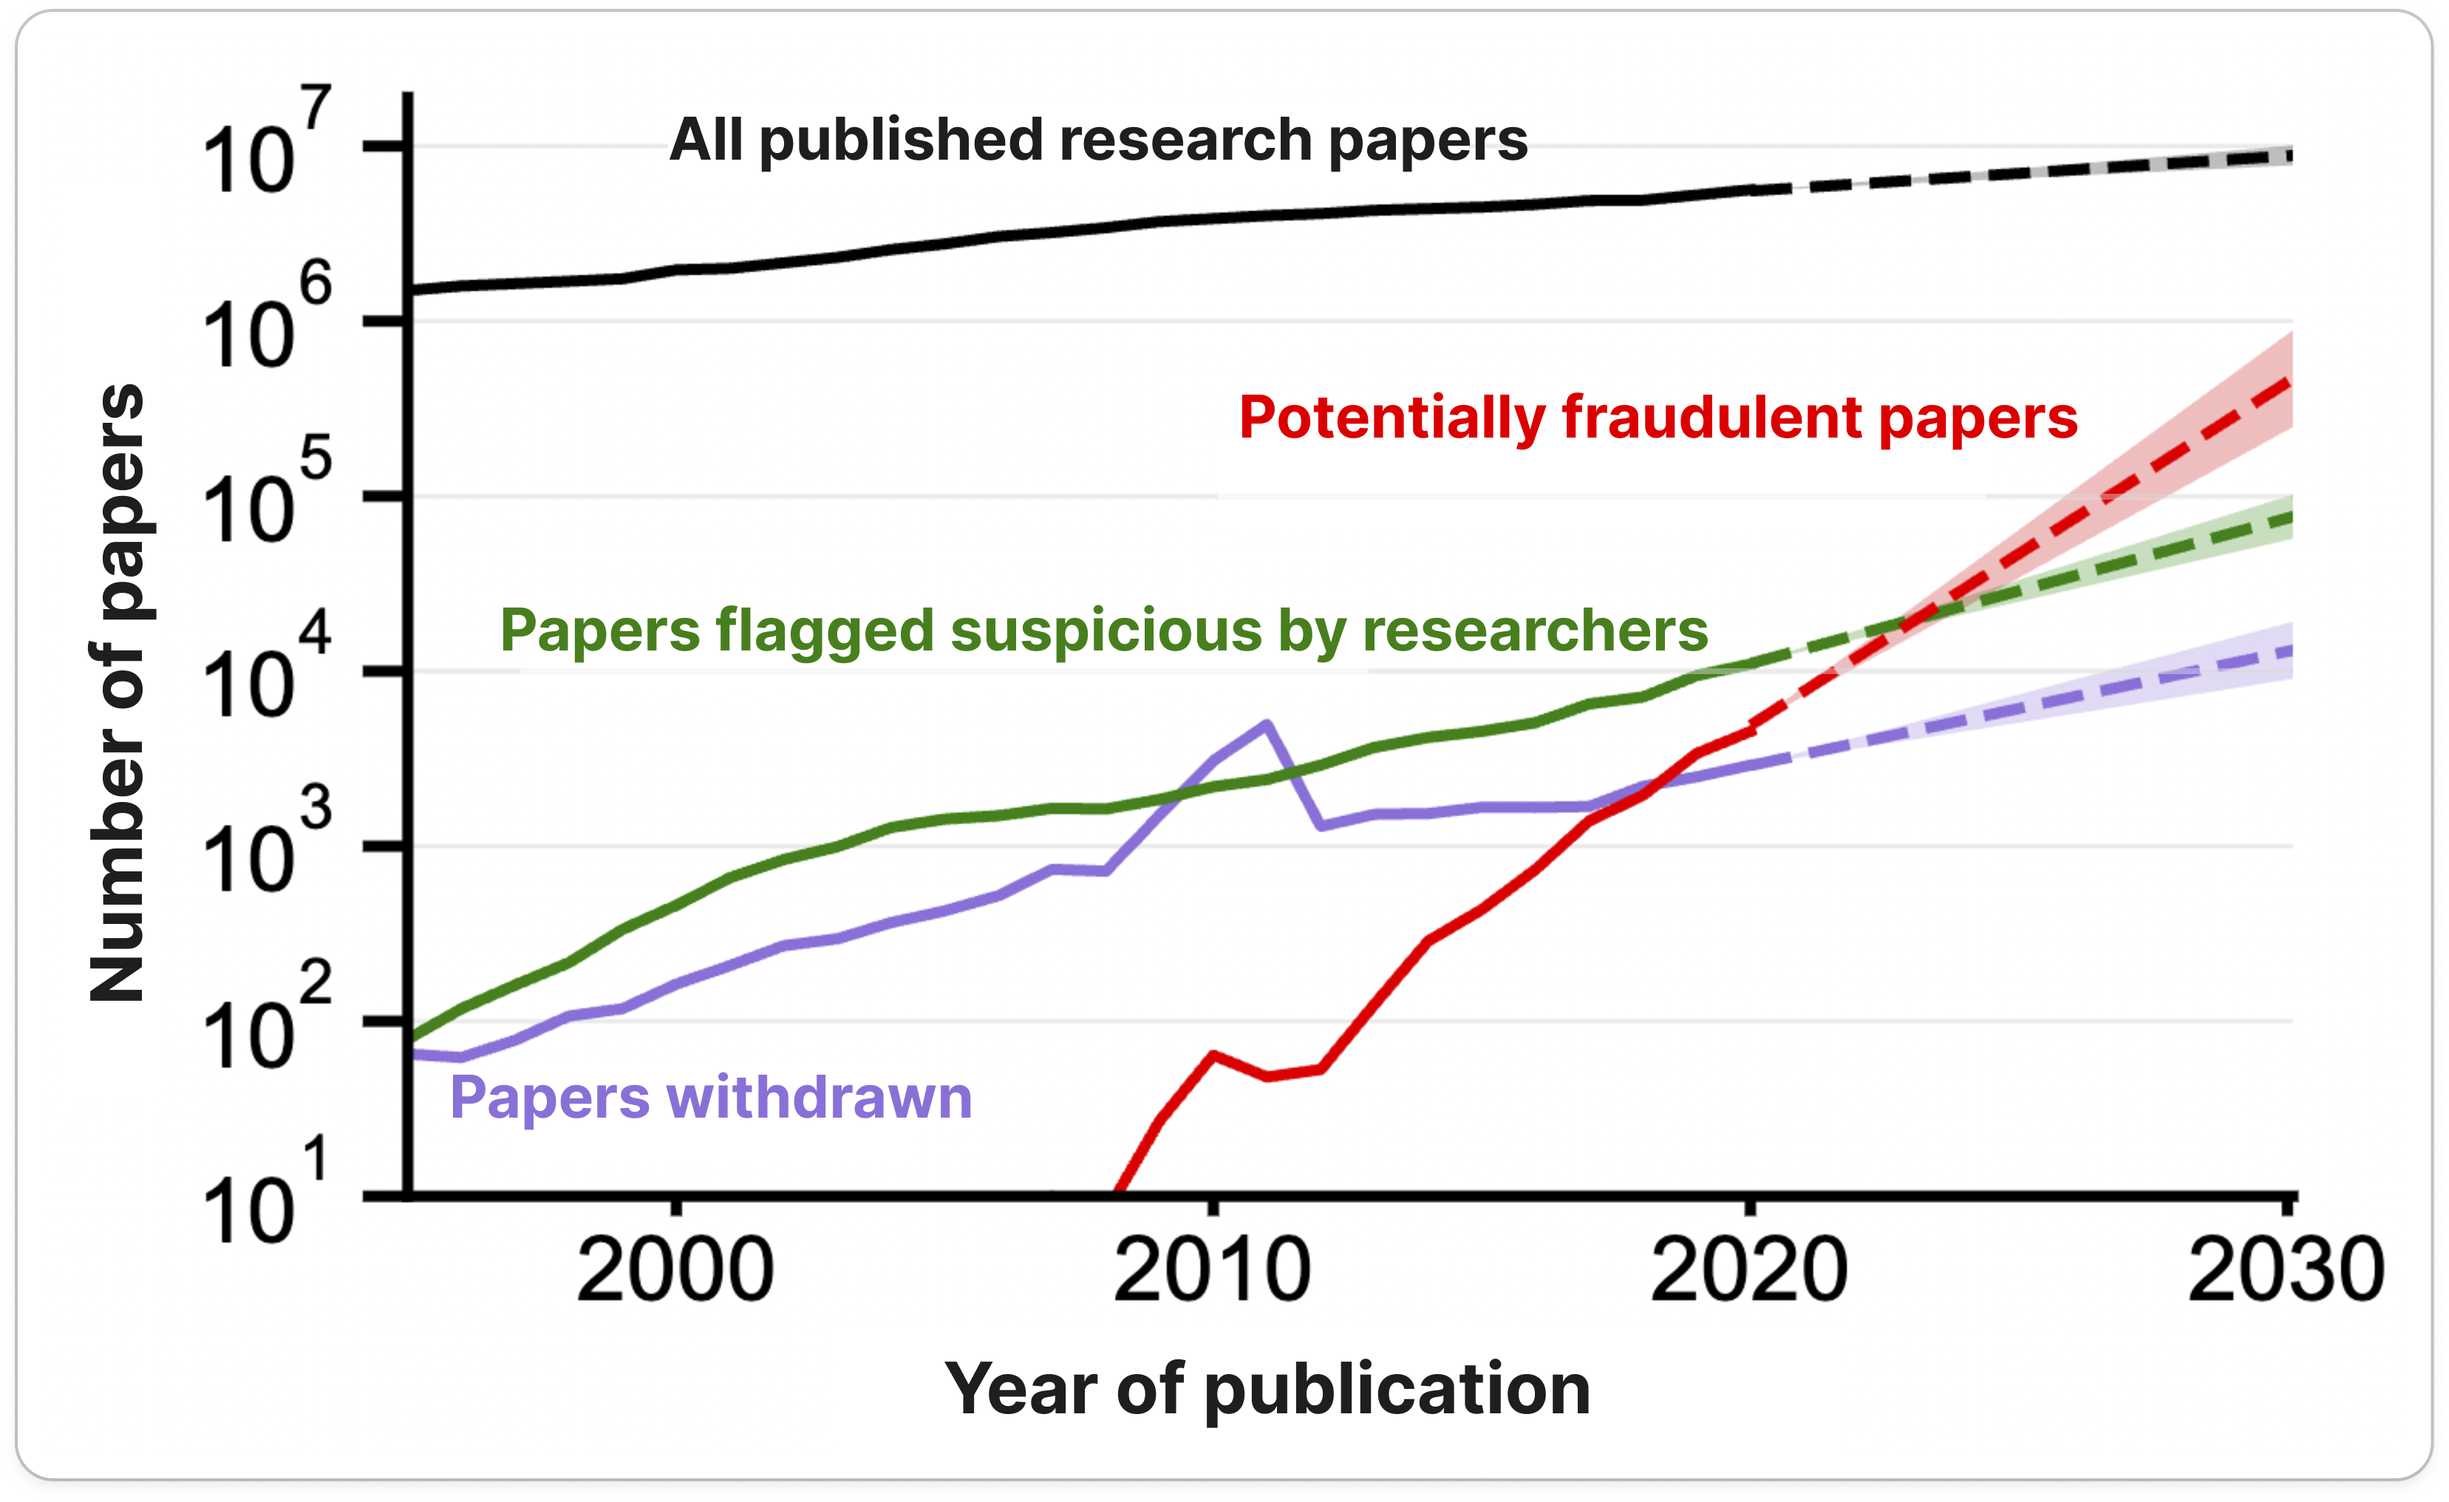
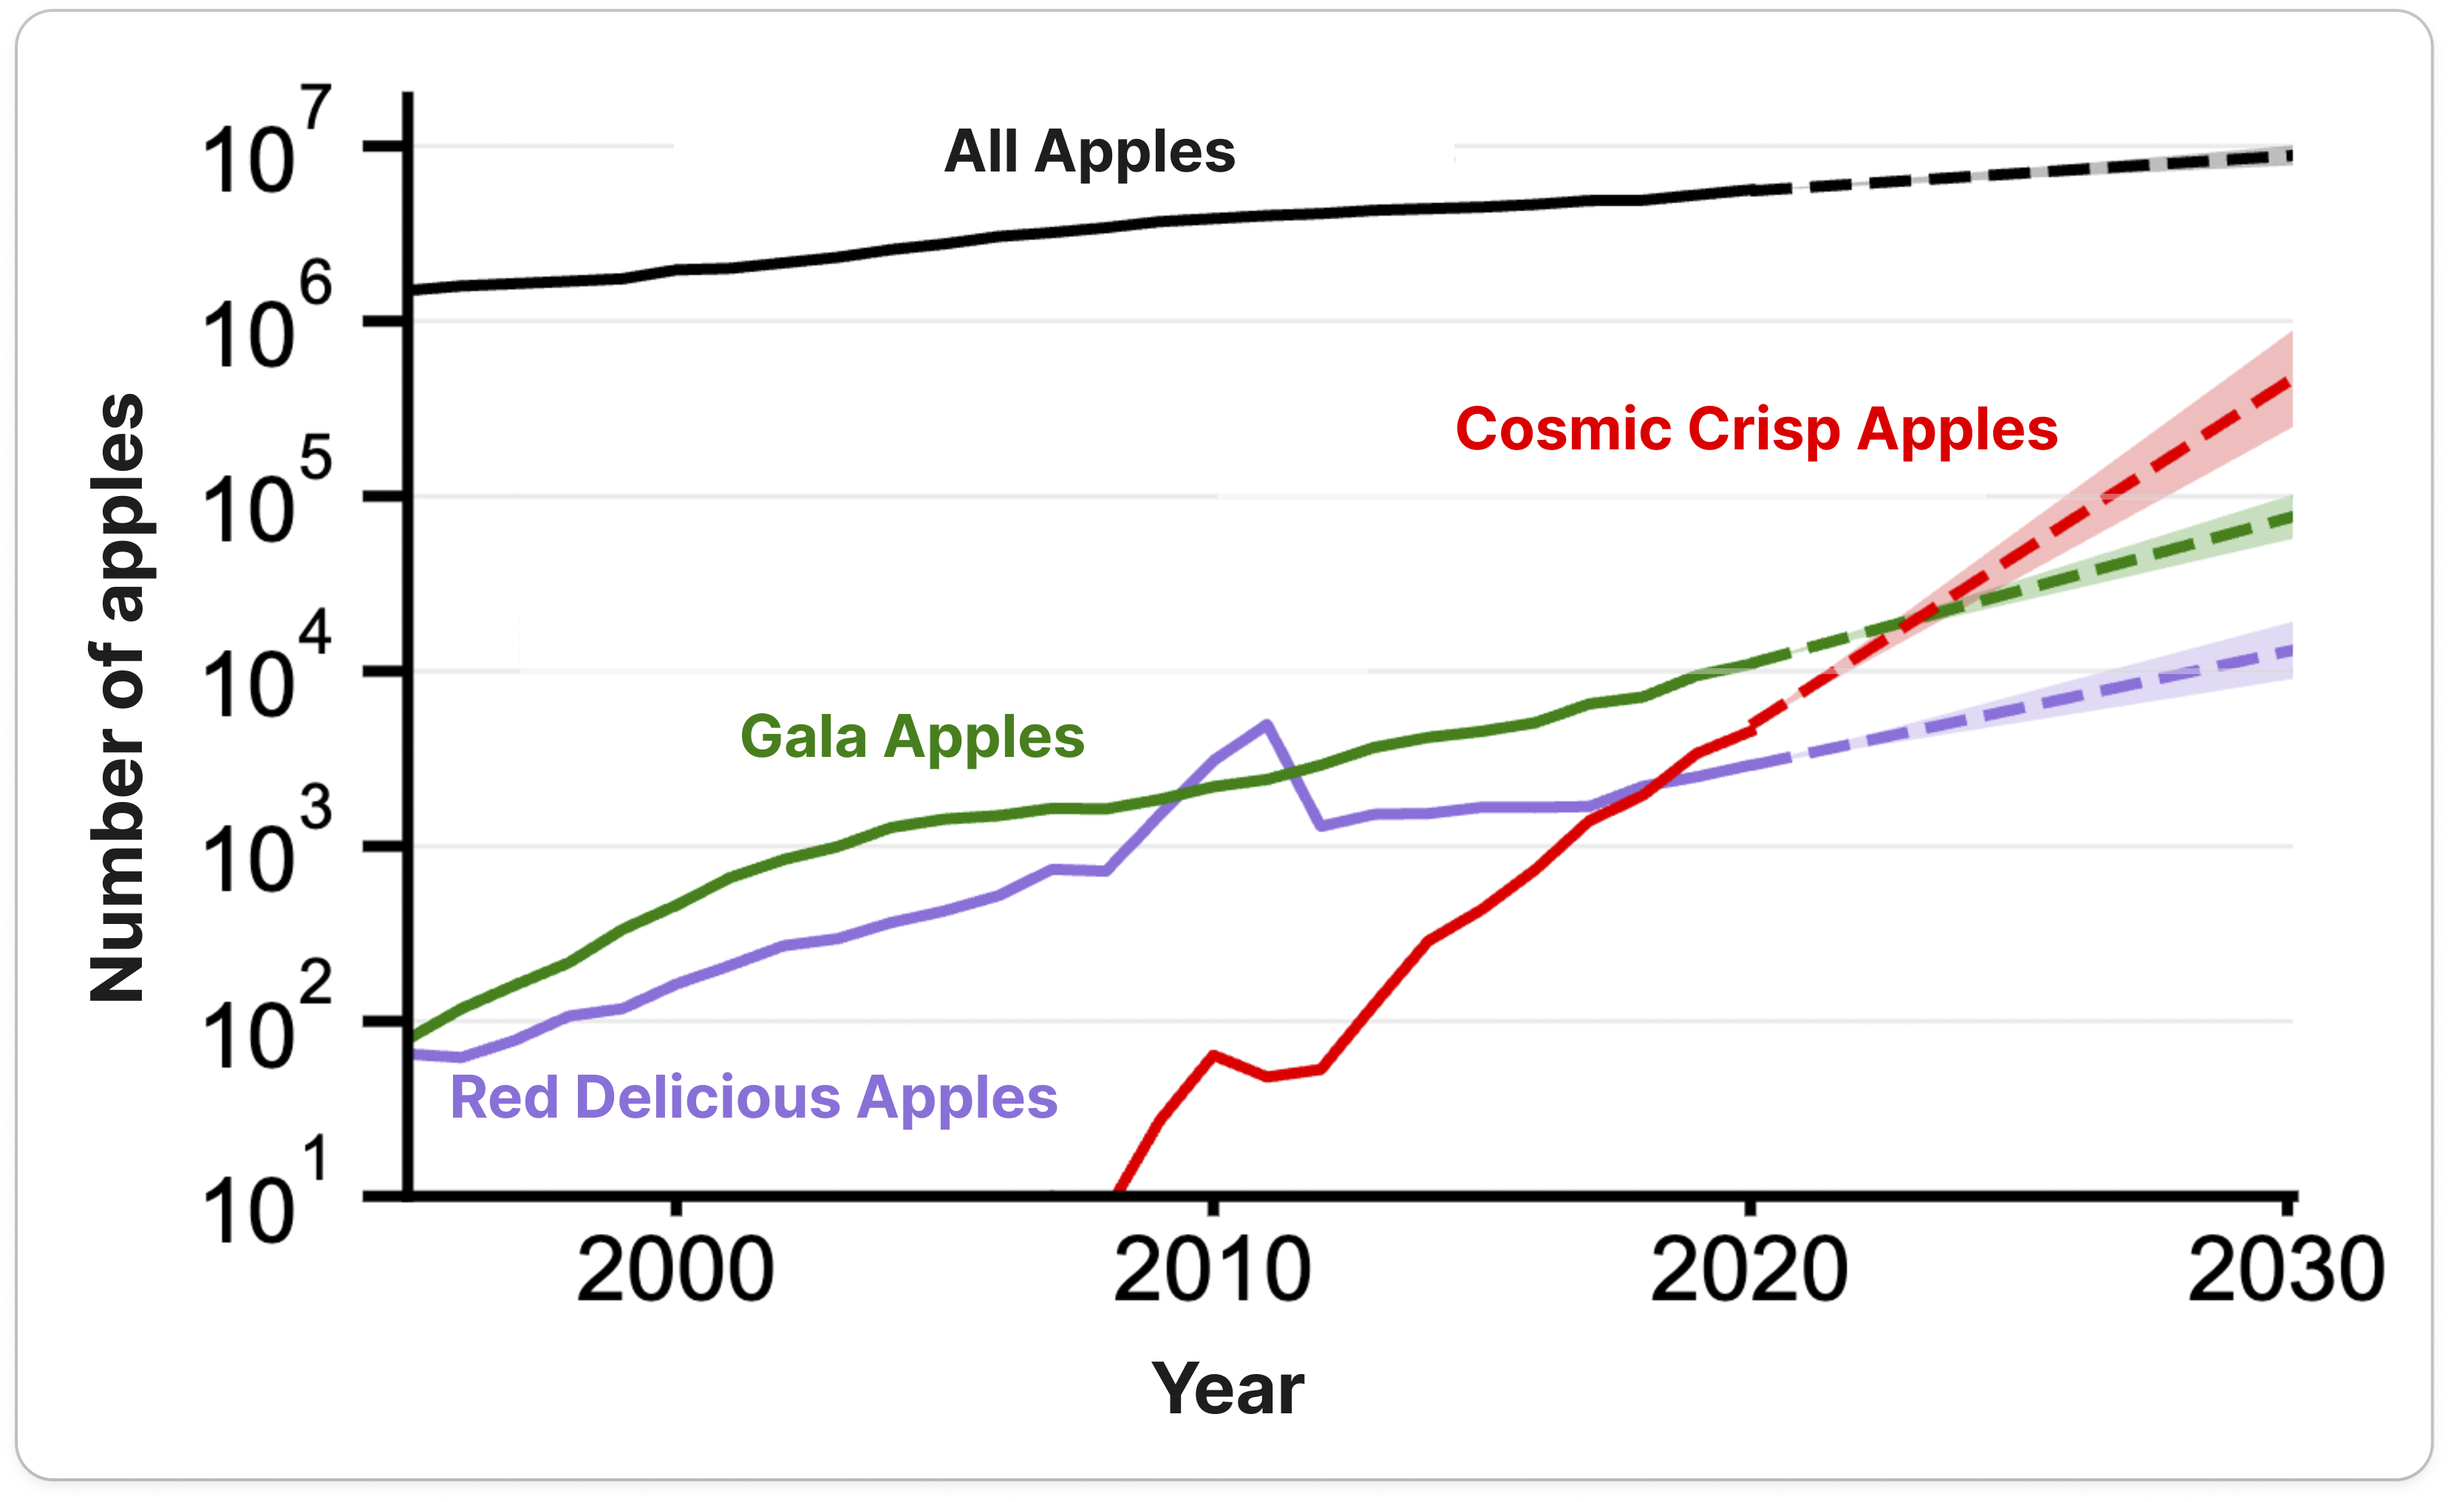
more changes

diff --git a/src/storage/engines/FirebaseStorageEngine.ts b/src/storage/engines/FirebaseStorageEngine.ts
@@ -97,7 +97,6 @@ export class FirebaseStorageEngine extends CloudStorageEngine {
   }
 
   protected async _pushToStorage<T extends StorageObjectType>(prefix: string, type: T, objectToUpload: StorageObject<T>) {
-    console.log('pushing', prefix, type, objectToUpload);
     const storageRef = ref(
       this.storage,
       `${this.collectionPrefix}${this.studyId}/${prefix}_${type}`,
@@ -125,7 +124,6 @@ export class FirebaseStorageEngine extends CloudStorageEngine {
   }
 
   protected async _cacheStorageObject<T extends StorageObjectType>(prefix: string, type: T) {
-    console.log('caching', prefix, type);
     const storageRef = ref(
       this.storage,
       `${this.collectionPrefix}${this.studyId}/${prefix}_${type}`,

diff --git a/src/storage/engines/types.ts b/src/storage/engines/types.ts
@@ -714,8 +714,6 @@ export abstract class StorageEngine {
     let debounceTimeout: NodeJS.Timeout | null = null;
 
     const listener = async (data: BlobEvent) => {
-      console.log(data.data);
-
       if (debounceTimeout || data.data.size === 0) {
         return;
       }
